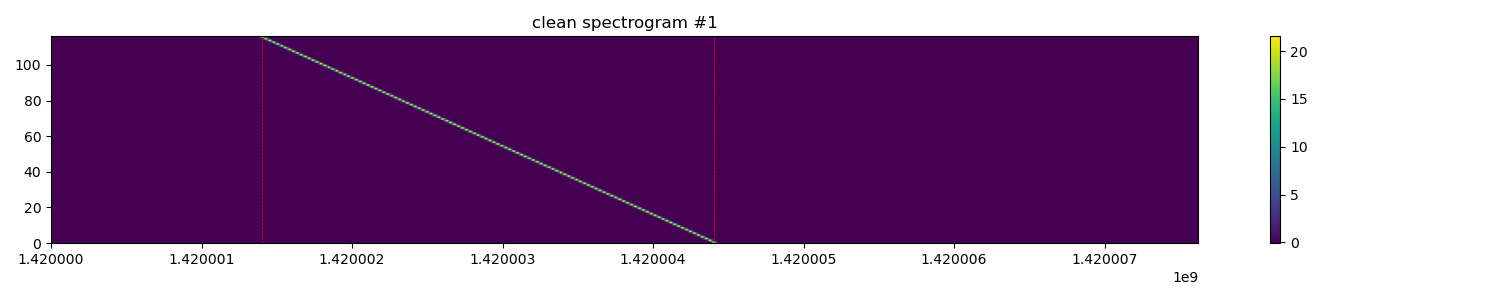
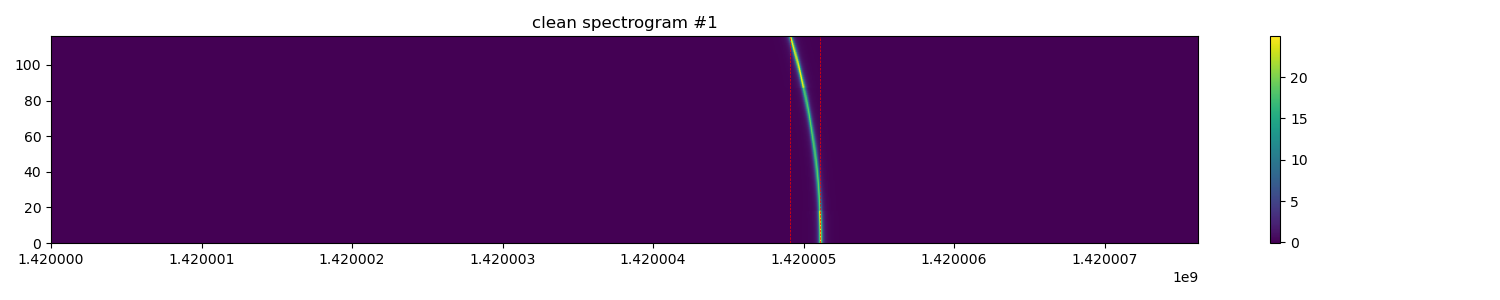
Add classifier

diff --git a/gen/SETIdataset.py b/gen/SETIdataset.py
@@ -95,12 +95,16 @@ class DynamicSpectrumDataset(Dataset):
         for i in range(n_signals):
             # 随机路径类型
             path_type = random.choices(['constant', 'sine', 'squared', 'rfi'],
-                                       weights=[0.4, 0.2, 0.4, 0.])[0]
+                                       weights=[0.5, 0.2, 0.3, 0.])[0]
             # 默认信号参数
             margin = int(0.2 * self.fchans)
             # 随机漂移率，确保绝对值不低于 drift_min_abs
             while True:
-                drift_rate = random.uniform(self.drift_min, self.drift_max)
+                # drift_rate = random.uniform(self.drift_min, self.drift_max)
+                # 使用 Beta 分布采样，α=β=6 => 两端概率极低
+                x = random.betavariate(6, 6)
+                drift_rate = self.drift_min + x * (self.drift_max - self.drift_min)
+                # !!⚠ 较大的 drift rate 在轨迹为抛物线时可能出现类似直线但是无法标记为 candidate 的情况
                 if abs(drift_rate) >= self.drift_min_abs:
                     break
             if drift_rate < 0:
@@ -227,12 +231,37 @@ class DynamicSpectrumDataset(Dataset):
         if self.mode == 'mask' or self.mode == 'test':
             rfi_mask = rfi_mask.astype(np.float32)[np.newaxis, :, :]
 
-        if self.mode == 'detection':
+        if self.mode == 'yolo':
+            N, classes, f_starts, f_stops = freq_info if freq_info else (0, [], [], [])
+            gt_boxes = torch.full((self.max_num_signals, 5), float('nan'), dtype=torch.float32)
+            if N > 0:
+                t_start, t_stop = 0.0, float(self.tchans - 1)
+                t_center = (t_start + t_stop) / 2.0
+                t_width = t_stop - t_start
+                f_starts = torch.tensor(f_starts, dtype=torch.float32)
+                f_stops = torch.tensor(f_stops, dtype=torch.float32)
+                f_center = (f_starts + f_stops) / 2.0
+                f_width = f_stops - f_starts
+                t_center /= (self.tchans - 1)
+                t_width /= (self.tchans - 1)
+                f_center /= (self.fchans - 1)
+                f_width /= (self.fchans - 1)
+
+                classes = torch.tensor(classes, dtype=torch.float32)
+
+                # YOLO format: [class_id, x_center, y_center, width, height]
+                gt_boxes[:N, 0] = torch.clamp(classes, 0.0, 1.0)
+                gt_boxes[:N, 1] = torch.clamp(t_center, 0.0, 1.0)
+                gt_boxes[:N, 2] = torch.clamp(f_center, 0.0, 1.0)
+                gt_boxes[:N, 3] = torch.clamp(t_width, 0.0, 1.0)
+                gt_boxes[:N, 4] = torch.clamp(f_width, 0.0, 1.0)
+            return noisy_spec, clean_spec, gt_boxes
+        elif self.mode == 'detection':
             N, f_starts, f_stops = freq_info if freq_info else (0, [], [])
             gt_boxes = torch.full((self.max_num_signals, 2), float('nan'), dtype=torch.float32)
             if N > 0:
-                starts_norm = torch.tensor(f_starts, dtype=torch.float32) / (self.fchans - 1)
-                stops_norm = torch.tensor(f_stops, dtype=torch.float32) / (self.fchans - 1)
+                starts_norm = torch.tensor(f_starts, dtype=torch.float64) / (self.fchans - 1)
+                stops_norm = torch.tensor(f_stops, dtype=torch.float64) / (self.fchans - 1)
                 gt_boxes[:N, 0] = torch.clamp(starts_norm, 0.0, 1.0)
                 gt_boxes[:N, 1] = torch.clamp(stops_norm, 0.0, 1.0)
             return noisy_spec, clean_spec, gt_boxes
@@ -449,6 +478,6 @@ if __name__ == "__main__":
         from arXiv:2502.20419v1 [astro-ph.IM] 27 Feb 2025
     """
 
-    plot_samples(dataset, kind='clean', num=100, with_spectrum=False, spectrum_type='fft2d')
+    plot_samples(dataset, kind='clean', num=30, with_spectrum=False, spectrum_type='fft2d')
     # plot_samples(dataset, kind='noisy', num=30, with_spectrum=True, spectrum_type='fft2d')
     # plot_samples(dataset, kind='mask', num=30, with_spectrum=False)

diff --git a/utils/det_utils.py b/utils/det_utils.py
@@ -3,7 +3,6 @@ from typing import Optional, List
 import numpy as np
 import torch
 import torch.nn.functional as F
-
 from utils.loss_func import _create_edge_weights
 
 
@@ -219,25 +218,35 @@ def nms_1d(det_out: torch.Tensor, iou_thresh: float = 0.5, top_k: Optional[int] 
     return results
 
 
-def plot_F_lines(ax, freqs, pred_boxes, normalized=True, color='red', linestyle='--', linewidth=0.5):
+def plot_F_lines(ax, freqs, pred_boxes, normalized=True, color=['red', 'green'], linestyle='--', linewidth=0.5):
     """
     Plot detected frequency intervals as vertical lines on a 1D frequency plot.
 
     Args:
         ax (matplotlib.axes.Axes): The axis to plot on.
         freqs (array-like): Array of frequency values.
-        pred_boxes (tuple): (N, f_starts, f_stops)
+        pred_boxes (tuple): (N, classes, f_starts, f_stops)
             - N: number of intervals
+            - classes: list/array of class ids (0 or 1)
             - f_starts: list/array of start indices (or normalized [0,1] values)
             - f_stops: list/array of stop indices (or normalized [0,1] values)
         normalized (bool): Whether the boxes are normalized to [0, 1].
-        color (str): Color of the lines.
+        color (str | list[str]): Either a single color string (e.g., 'red')
+                                 or a list of two colors [color_class0, color_class1].
         linestyle (str): Line style.
         linewidth (float): Line width.
     """
-    N, f_starts, f_stops = pred_boxes
+    N, classes, f_starts, f_stops = pred_boxes
     if N == 0:
         return
+
+    # --- 统一颜色配置 ---
+    if isinstance(color, str):
+        colors = [color, color]
+    elif isinstance(color, (list, tuple)) and len(color) == 2:
+        colors = list(color)
+    else:
+        raise ValueError("`color` must be a string or a list/tuple of two color strings.")
 
     def to_numpy(x):
         if isinstance(x, list):
@@ -248,6 +257,7 @@ def plot_F_lines(ax, freqs, pred_boxes, normalized=True, color='red', linestyle=
         else:
             return np.asarray(x)
 
+    classes = to_numpy(classes)
     f_starts = to_numpy(f_starts)
     f_stops = to_numpy(f_stops)
 
@@ -261,6 +271,7 @@ def plot_F_lines(ax, freqs, pred_boxes, normalized=True, color='red', linestyle=
 
     f_starts = f_starts[valid_mask]
     f_stops = f_stops[valid_mask]
+    classes = classes[valid_mask]
     N_valid = len(f_starts)
     if N_valid == 0:
         print(f"[\033[33mWarn\033[0m] No valid boxes after filtering in plot_F_lines")
@@ -273,6 +284,7 @@ def plot_F_lines(ax, freqs, pred_boxes, normalized=True, color='red', linestyle=
         f_starts = f_starts.astype(int)
         f_stops = f_stops.astype(int)
 
-    for f_start, f_stop in zip(f_starts, f_stops):
-        ax.axvline(freqs[f_start], color=color, linestyle=linestyle, linewidth=linewidth)
-        ax.axvline(freqs[f_stop], color=color, linestyle=linestyle, linewidth=linewidth)
+    for cls, f_start, f_stop in zip(classes, f_starts, f_stops):
+        col = colors[int(cls)] if int(cls) < len(colors) else colors[0]
+        ax.axvline(freqs[f_start], color=col, linestyle=linestyle, linewidth=linewidth)
+        ax.axvline(freqs[f_stop], color=col, linestyle=linestyle, linewidth=linewidth)

diff --git a/gen/SETIgen.py b/gen/SETIgen.py
@@ -151,6 +151,7 @@ def sim_dynamic_spec_seti(fchans, tchans, df, dt, fch1=None, ascending=False, si
     # 注入信号
     f_starts = []
     f_stops = []
+    classes = []
     level = frame.get_intensity(random.uniform(10, 20))
     if signals:
         for sig in signals:
@@ -165,7 +166,6 @@ def sim_dynamic_spec_seti(fchans, tchans, df, dt, fch1=None, ascending=False, si
             # 漂移率
             drift = sig.get('drift_rate', 0.0)
             drift = (drift * u.Hz / u.s) if not isinstance(drift, u.Quantity) else drift
-            print(drift)
             # 强度
             if 'snr' in sig:
                 level = frame.get_intensity(sig['snr'])
@@ -187,6 +187,7 @@ def sim_dynamic_spec_seti(fchans, tchans, df, dt, fch1=None, ascending=False, si
             elif path_type == 'squared':
                 squared_drift = sig.get('squared_drift', drift)
                 path = stg.squared_path(f_start=f_start, drift_rate=squared_drift)
+                low_squared_drift = True if abs(squared_drift) < 1.e-4 else False
             elif path_type == 'rfi':
                 spread = sig.get('spread', 0.0) * u.Hz
                 spread_type = sig.get('spread_type', 'uniform')
@@ -237,6 +238,11 @@ def sim_dynamic_spec_seti(fchans, tchans, df, dt, fch1=None, ascending=False, si
             f_stop = frame.get_index(path(frame.ts[tchans - 1]))
             f_starts.append(f_start)
             f_stops.append(f_stop)
+
+            if path_type == 'constant' or low_squared_drift == True:
+                classes.append(1.)
+            else:
+                classes.append(0.)
 
     signal_spec = frame.get_data(db=False).copy()
 
@@ -327,11 +333,11 @@ def sim_dynamic_spec_seti(fchans, tchans, df, dt, fch1=None, ascending=False, si
             plt.savefig(out_path, dpi=480)
             print(f"Plot saved to {out_path}")
     if mode == 'detection':
-        return signal_spec, clean_spec, noisy_spec, (len(f_starts), f_starts, f_stops)
+        return signal_spec, clean_spec, noisy_spec, (len(f_starts), classes, f_starts, f_stops)
     elif mode == 'mask':
         return signal_spec, clean_spec, noisy_spec, rfi_mask
     else:
-        return signal_spec, clean_spec, noisy_spec, rfi_mask, (len(f_starts), f_starts, f_stops)
+        return signal_spec, clean_spec, noisy_spec, rfi_mask, (len(f_starts), classes, f_starts, f_stops)
 
 
 if __name__ == "__main__":
